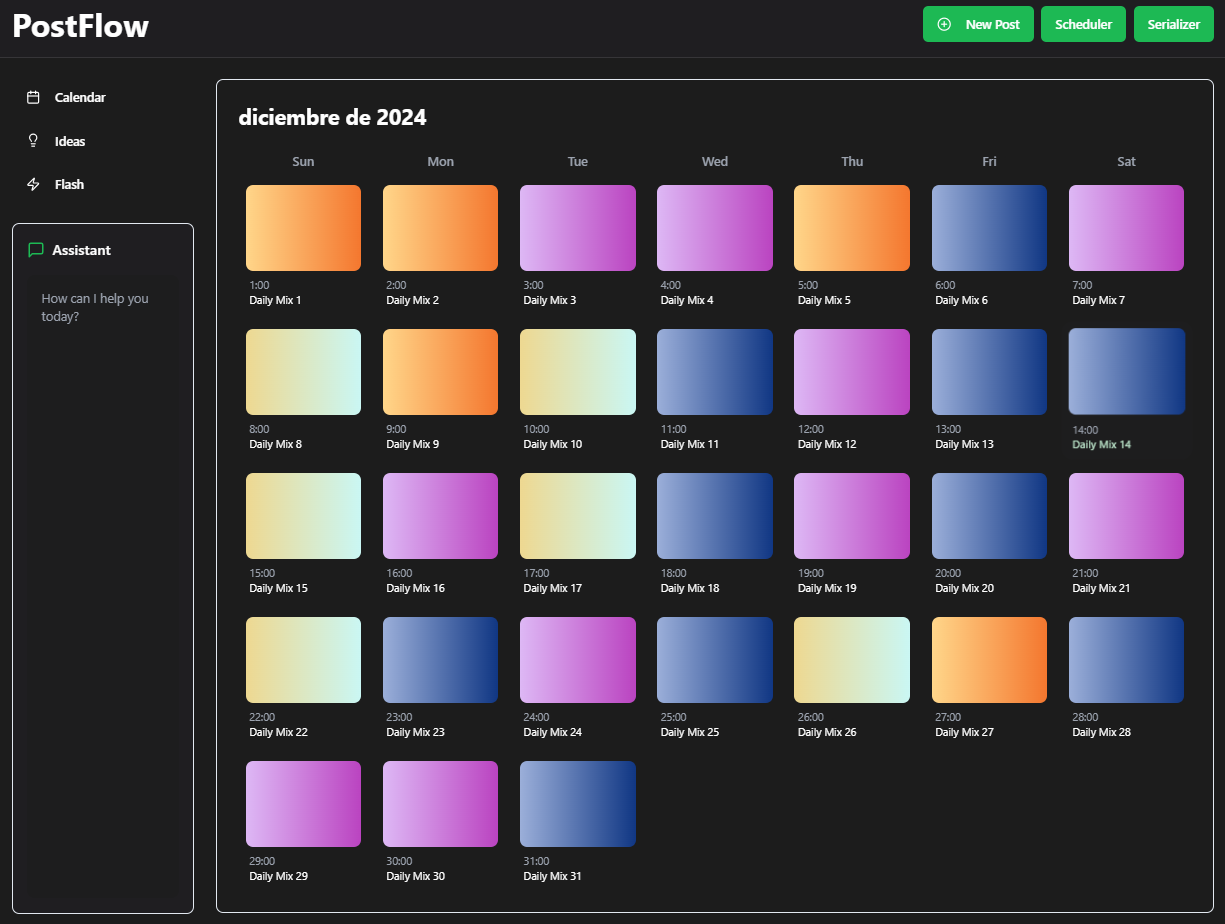
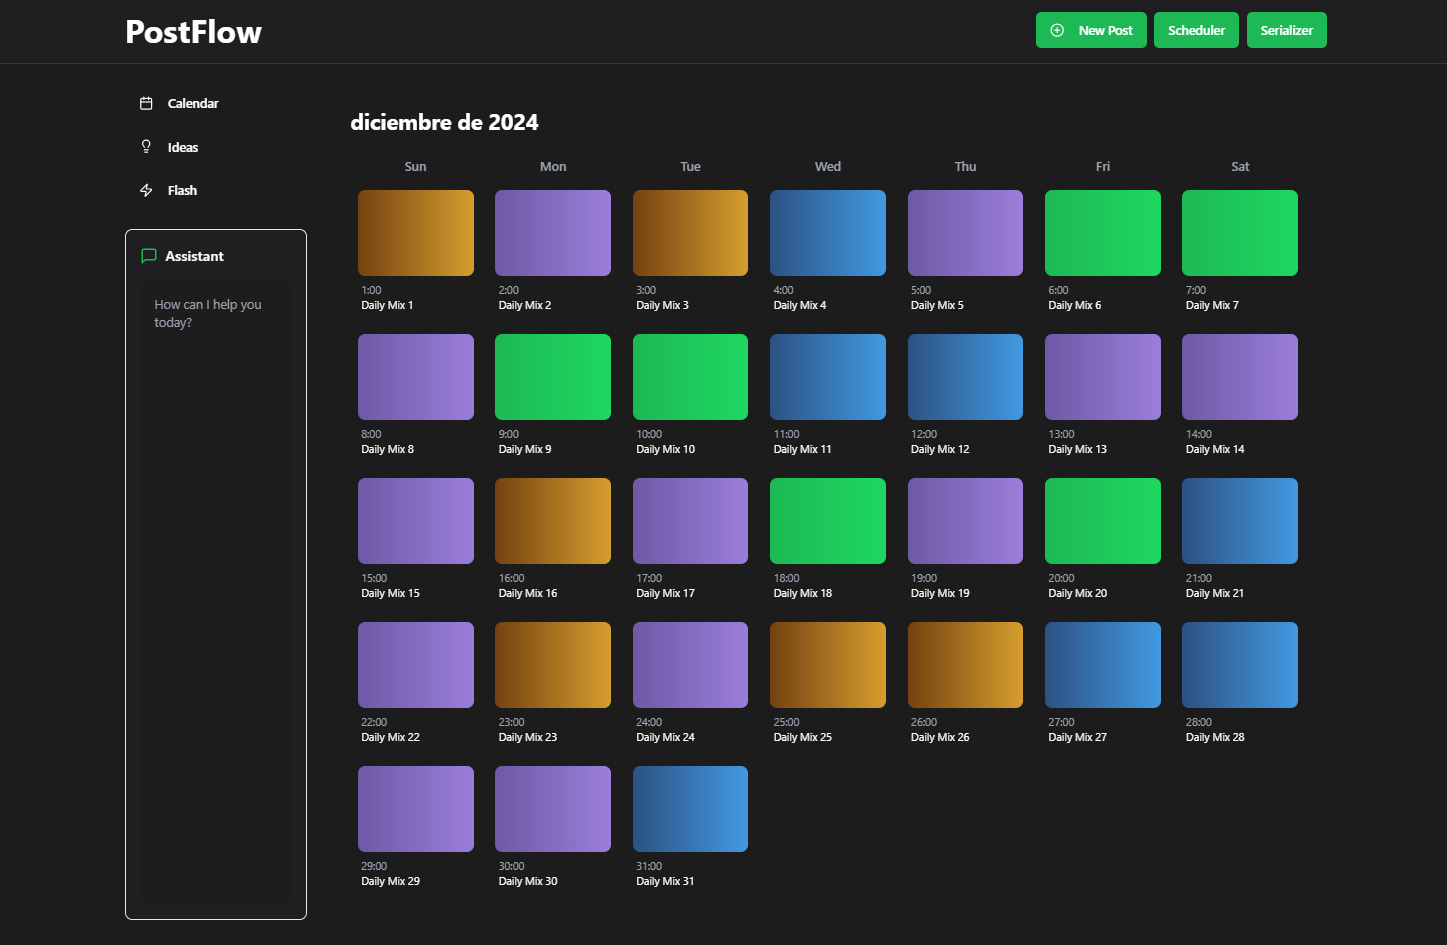
Readme.MD modified

diff --git a/src/components/Calendar.tsx b/src/components/Calendar.tsx
@@ -10,10 +10,10 @@ import { DayDetail } from "./DayDetail";
 const daysOfWeek = ["Sun", "Mon", "Tue", "Wed", "Thu", "Fri", "Sat"];
 
 const gradients = [
-  "linear-gradient(90deg, hsla(277, 75%, 84%, 1) 0%, hsla(297, 50%, 51%, 1) 100%)",
-  "linear-gradient(90deg, hsla(221, 45%, 73%, 1) 0%, hsla(220, 78%, 29%, 1) 100%)",
-  "linear-gradient(90deg, hsla(39, 100%, 77%, 1) 0%, hsla(22, 90%, 57%, 1) 100%)",
-  "linear-gradient(90deg, hsla(46, 73%, 75%, 1) 0%, hsla(176, 73%, 88%, 1) 100%)",
+  "linear-gradient(90deg, #1DB954 0%, #1ed760 100%)", // Verde Spotify
+  "linear-gradient(90deg, #6E59A5 0%, #9B7EDA 100%)", // Púrpura
+  "linear-gradient(90deg, #2C5282 0%, #4299E1 100%)", // Azul
+  "linear-gradient(90deg, #744210 0%, #D69E2E 100%)", // Ámbar
 ];
 
 export const Calendar = () => {
@@ -131,7 +131,7 @@ export const Calendar = () => {
   };
 
   return (
-    <Card className="p-6 bg-background/50 backdrop-blur-sm">
+    <Card className="p-6 bg-background/50 backdrop-blur-sm border-0">
       <div className="mb-6">
         <h2 className="text-2xl font-bold text-white">
           {currentDate.toLocaleString("default", { month: "long", year: "numeric" })}

diff --git a/src/components/DayDetail.tsx b/src/components/DayDetail.tsx
@@ -14,8 +14,8 @@ export const DayDetail = ({ day, month, year, tasks, onClose }: DayDetailProps) 
   
   return (
     <div className="fixed inset-0 bg-background/80 backdrop-blur-sm z-50 flex items-center justify-center p-4">
-      <div className="bg-card w-full max-w-4xl rounded-xl shadow-lg animate-in zoom-in-90 duration-300">
-        <div className="p-6 border-b border-border/10">
+      <div className="bg-card w-full max-w-4xl rounded-xl shadow-lg animate-in zoom-in-90 duration-300 border-0">
+        <div className="p-6 border-0 border-border/10">
           <div className="flex justify-between items-center">
             <h2 className="text-2xl font-bold">
               {new Date(year, month, day).toLocaleDateString("default", {
